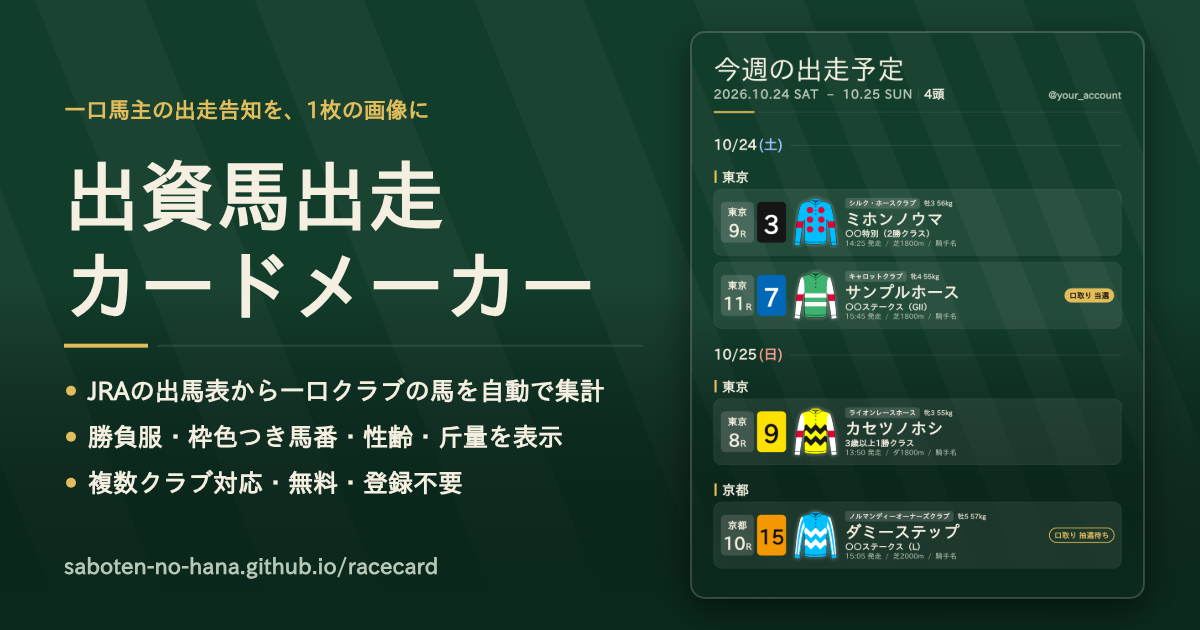
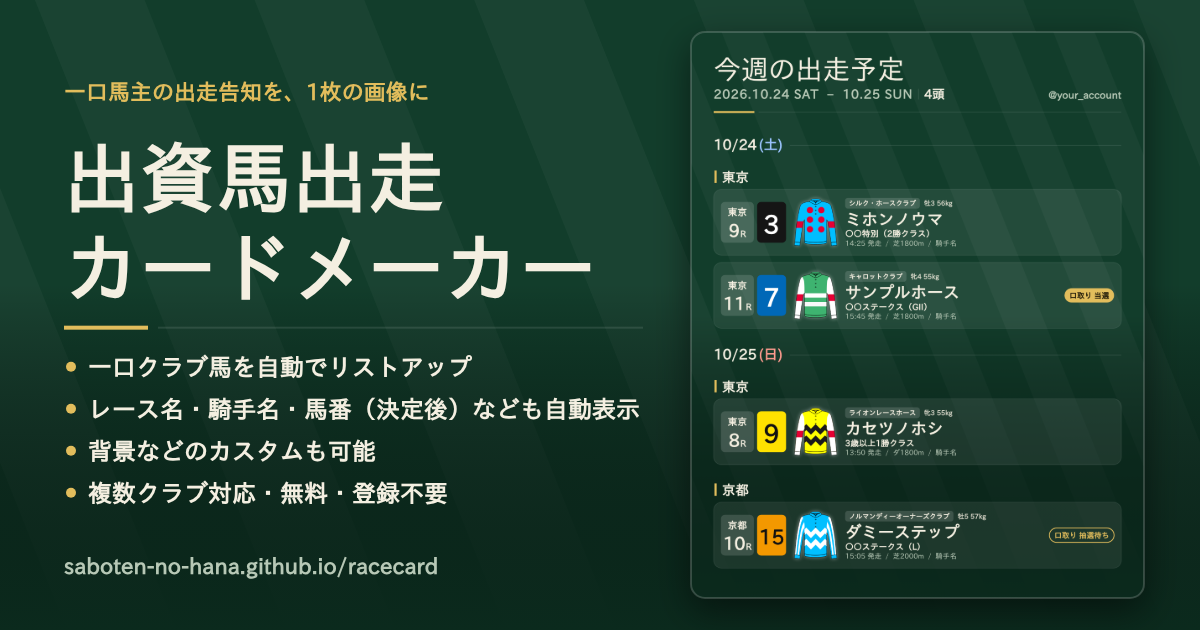
OGP画像の説明文を修正
- 「JRAの出馬表から一口クラブの馬を自動で集計」→「一口クラブ馬を自動でリストアップ」
- 「勝負服・枠色つき馬番・性齢・斤量を表示」→「レース名・騎手名・馬番（決定後）なども自動表示」
- 「背景などのカスタムも可能」を追加（4行になったので行間を詰め、箇条書きの文字の大きさをそろえた）

Claude-Session: https://claude.ai/code/session_01Cf93NYy7TZNuiwoAWi7RG2

Changed region(s): [[0.0308, 0.1206, 0.555, 0.8143], [0.185, 0.4825, 0.2158, 0.5127]]

diff --git a/index.html b/index.html
@@ -16,7 +16,7 @@
 <meta property="og:title" content="出資馬出走カードメーカー">
 <meta property="og:description" content="今週末に出走する一口出資馬を、勝負服・レース番号・枠色つき馬番入りの1枚の画像に。複数クラブ対応・無料・登録不要。">
 <meta property="og:url" content="https://saboten-no-hana.github.io/racecard/">
-<meta property="og:image" content="https://saboten-no-hana.github.io/racecard/og.png?v=2">
+<meta property="og:image" content="https://saboten-no-hana.github.io/racecard/og.png?v=3">
 <meta property="og:image:width" content="1200">
 <meta property="og:image:height" content="630">
 <meta property="og:image:alt" content="ツールの紹介と、出走予定の出資馬を勝負服つきで並べた縦長の画像の例">

diff --git a/tools/make_og.py b/tools/make_og.py
@@ -56,19 +56,20 @@ COMPOSE = r"""
   c.save(); rect(); c.strokeStyle = 'rgba(255,255,255,0.18)'; c.lineWidth = 2; c.stroke(); c.restore();
   /* 左の説明文 */
   const x = 64, maxW = cx - x - 48;
-  const fit = (t, w, size) => { let s = size; do { c.font = `${w} ${s}px ${IPA}`; } while (c.measureText(t).width > maxW && --s > 10); return s; };
+  const fit = (t, w, size, mw = maxW) => { let s = size; do { c.font = `${w} ${s}px ${IPA}`; } while (c.measureText(t).width > mw && --s > 10); return s; };
   c.textBaseline = 'alphabetic';
-  let y = 118;
+  let y = 100;
   c.fillStyle = '#e2bd5c'; c.font = `700 22px ${IPA}`; c.fillText('一口馬主の出走告知を、1枚の画像に', x, y);
   y += 30; c.fillStyle = '#f4efe1';
   const s1 = fit('出資馬出走', 700, 76); c.fillText('出資馬出走', x, y + s1);
   y += s1 * 1.18; const s2 = fit('カードメーカー', 700, 76); c.font = `700 ${s2}px ${IPA}`; c.fillText('カードメーカー', x, y + s2);
   y += s2 + 30; c.fillStyle = '#e2bd5c'; c.fillRect(x, y, 84, 4); c.fillStyle = 'rgba(255,255,255,0.10)'; c.fillRect(x + 94, y + 1, maxW - 94, 2);
-  y += 56;
-  const lines = ['JRAの出馬表から一口クラブの馬を自動で集計', '勝負服・枠色つき馬番・性齢・斤量を表示', '複数クラブ対応・無料・登録不要'];
+  y += 50;
+  const lines = ['一口クラブ馬を自動でリストアップ', 'レース名・騎手名・馬番（決定後）なども自動表示', '背景などのカスタムも可能', '複数クラブ対応・無料・登録不要'];
+  const ls = Math.min(...lines.map(t => fit(t, 700, 25, maxW - 24)));  /* 箇条書きは同じ大きさにそろえる */
   for (const t of lines) {
     c.fillStyle = '#e2bd5c'; c.beginPath(); c.arc(x + 7, y - 9, 5, 0, Math.PI*2); c.fill();
-    c.fillStyle = '#f4efe1'; const s = fit(t, 700, 25); c.font = `700 ${s}px ${IPA}`; c.fillText(t, x + 24, y); y += 46;
+    c.fillStyle = '#f4efe1'; c.font = `700 ${ls}px ${IPA}`; c.fillText(t, x + 24, y); y += 42;
   }
   c.fillStyle = '#b7c8b6'; c.font = `700 22px ${IPA}`; c.fillText('saboten-no-hana.github.io/racecard', x, H - 56);
   return cv.toDataURL('image/png');
